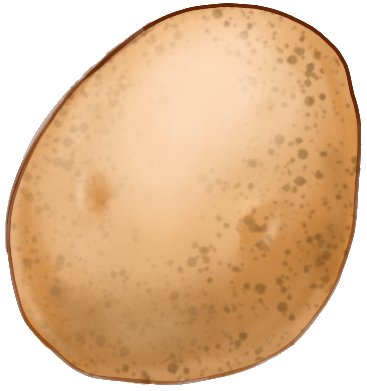
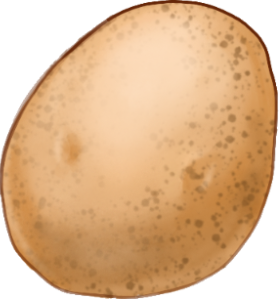
imgae upload

diff --git a/src/components/resultPlayview1.js b/src/components/resultPlayview1.js
@@ -15,6 +15,6 @@ export default function ResultPlayview1({potatoIdx}) {
     }, [navigate])
 
     return <div className='resultDiv'>
-        <img src={`../images/potatos/potato${potatoIdx}_3.png`} className='resultPotato' alt='resultPotatoImg'/>
+        <img src={`../images/potatos/potato${potatoIdx}_4.png`} className='resultPotato' alt='resultPotatoImg'/>
     </div>;
 }
